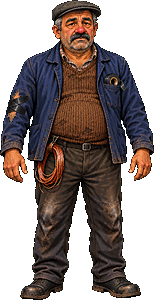
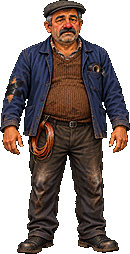
Personaje distincte: fețe și corpuri descrise, fără referința lui Romică, înălțimi reale (195 cm = 300 px)
Coada reface foile lui Gina, Marius, Nelu și Gelu, Costel, Tanti Veta și ale turistului.
tools/art/lineup.py le pune unul lângă altul la scara reală.

Claude-Session: https://claude.ai/code/session_01HCHJCEWXfeuuaToy4Kpunx

diff --git a/tools/art/lineup.py b/tools/art/lineup.py
@@ -1,0 +1,32 @@
+#!/usr/bin/env python3
+"""Pune foile de personaj una lângă alta, cu tălpile pe aceeași linie, la scara lor reală.
+
+  python3 tools/art/lineup.py <iesire.png> <id> [<id> ...] [--zoom 2]
+
+Folosește art/final/<id>.png. Bun pentru a verifica dacă personajele se deosebesc între ele
+(siluetă, înălțime, față) și pentru testul orb.
+"""
+import argparse
+import os
+
+from PIL import Image
+
+ROOT = os.path.abspath(os.path.join(os.path.dirname(__file__), "..", ".."))
+
+ap = argparse.ArgumentParser()
+ap.add_argument("out")
+ap.add_argument("ids", nargs="+")
+ap.add_argument("--zoom", type=int, default=2)
+a = ap.parse_args()
+
+ims = [Image.open(os.path.join(ROOT, "art", "final", i + ".png")).convert("RGBA") for i in a.ids]
+gap = 14
+w = sum(im.width for im in ims) + gap * (len(ims) + 1)
+h = max(im.height for im in ims) + 20
+canvas = Image.new("RGBA", (w, h), (42, 42, 51, 255))
+x = gap
+for im in ims:
+    canvas.alpha_composite(im, (x, h - 10 - im.height))
+    x += im.width + gap
+canvas.convert("RGB").resize((w * a.zoom, h * a.zoom), Image.NEAREST).save(a.out)
+print("ok:", a.out, canvas.size)

diff --git a/tools/art/generate.py b/tools/art/generate.py
@@ -31,7 +31,7 @@ import urllib.error
 import urllib.request
 
 sys.path.insert(0, os.path.dirname(__file__))
-from pixelize import pixelize  # noqa: E402
+from pixelize import pixelize, pixelize_args  # noqa: E402
 
 ROOT = os.path.abspath(os.path.join(os.path.dirname(__file__), "..", ".."))
 PROMPTS = os.path.join(ROOT, "art", "prompts")
@@ -141,9 +141,8 @@ def generate(asset_id, key, quality_override=""):
     raw_path = os.path.join(RAW, asset_id + ".png")
     with open(raw_path, "wb") as f:
         f.write(png)
-    pix = spec.get("pixelize", {"width": 640, "height": 360} if spec.get("type") == "scene" else {"height": 300})
     final_path = os.path.join(FINAL, asset_id + ".png")
-    pixelize(raw_path, final_path, **pix)
+    pixelize(raw_path, final_path, **pixelize_args(spec))
     cost = estimate_cost(model, res.get("usage", {}) or {})
     stamp = datetime.datetime.now(datetime.timezone.utc).strftime("%Y-%m-%d %H:%M UTC")
     new = not os.path.exists(LOG)

diff --git a/tools/art/import_image.py b/tools/art/import_image.py
@@ -14,7 +14,7 @@ import shutil
 import sys
 
 sys.path.insert(0, os.path.dirname(__file__))
-from pixelize import pixelize  # noqa: E402
+from pixelize import pixelize, pixelize_args  # noqa: E402
 
 ROOT = os.path.abspath(os.path.join(os.path.dirname(__file__), "..", ".."))
 
@@ -32,10 +32,7 @@ os.makedirs(os.path.join(ROOT, "art", "final"), exist_ok=True)
 raw = os.path.join(ROOT, "art", "raw", name + ".png")
 from PIL import Image
 Image.open(a.image).save(raw)
-pix = dict(spec.get("pixelize", {"width": 640, "height": 360} if spec.get("type") == "scene" else {"height": 300}))
-if spec.get("manual_key"):
-    pix["key"] = spec["manual_key"]
-pixelize(raw, os.path.join(ROOT, "art", "final", name + ".png"), **pix)
+pixelize(raw, os.path.join(ROOT, "art", "final", name + ".png"), **pixelize_args(spec))
 log = os.path.join(ROOT, "art", "LOG.md")
 new = not os.path.exists(log)
 with open(log, "a", encoding="utf-8") as f:

diff --git a/tools/art/pixelize.py b/tools/art/pixelize.py
@@ -8,6 +8,24 @@ Personaje/obiecte (cu transparență): redimensionare la înălțimea cerută, m
 import sys
 from PIL import Image, ImageEnhance, ImageFilter
 
+# Foile de personaj au toate aceeași scară, ca înălțimile să fie reale între ele: 195 cm = 300 px.
+CHAR_PX_PER_CM = 300 / 195
+
+
+def pixelize_args(spec):
+    """Parametrii de pixelizare pentru un fișier art/prompts/<id>.json."""
+    if spec.get("pixelize"):
+        pix = dict(spec["pixelize"])
+    elif spec.get("type") == "scene":
+        pix = {"width": 640, "height": 360}
+    elif spec.get("height_cm"):
+        pix = {"height": round(spec["height_cm"] * CHAR_PX_PER_CM)}
+    else:
+        pix = {"height": 300}
+    if spec.get("manual_key"):
+        pix["key"] = spec["manual_key"]
+    return pix
+
 
 def _crop_to(im, w, h):
     tw, th = im.size

diff --git a/tools/art/import_inbox.py b/tools/art/import_inbox.py
@@ -20,7 +20,8 @@ for path in sorted(glob.glob(os.path.join(ROOT, "art", "inbox", "*"))):
     if not os.path.exists(os.path.join(ROOT, "art", "prompts", asset_id + ".json")):
         print(f"::warning::{name}: nu există art/prompts/{asset_id}.json, îl las în inbox.")
         continue
-    cmd = [sys.executable, os.path.join(ROOT, "tools", "art", "import_image.py"), asset_id, path, src]
+    source = variant if variant in ("chatgpt", "gemini") else src
+    cmd = [sys.executable, os.path.join(ROOT, "tools", "art", "import_image.py"), asset_id, path, source]
     if variant:
         cmd += ["--variant", variant]
     subprocess.check_call(cmd)

diff --git a/docs/ARTA.md b/docs/ARTA.md
@@ -22,7 +22,7 @@
 
 ## Reguli
 - Cheia API stă **doar** în secretul `OPENAI_API_KEY` al repository-ului. Nu se scrie niciodată în fișiere sau în chat.
-- **Referințe** (`refs`): doar imagini proprii (foi de personaj, scene generate deja), ca să rămână personajele identice între scene. Fotografiile reale de pe internet se folosesc doar ca sursă de fapte în prompt, nu ca imagini de intrare.
+- **Referințe** (`refs`): doar imagini proprii, și **doar ale aceluiași personaj** (foaia lui de personaj, când îi facem portretul sau o scenă cu el). Niciodată foaia altui personaj ca „referință de stil”: modelul îi copiază fața (vezi mai jos). Fotografiile reale de pe internet se folosesc doar ca sursă de fapte în prompt, nu ca imagini de intrare.
 - Plafon: maximum 4 imagini pe rulare, ca să nu apară facturi surpriză.
 - Arta pe straturi: fundaluri **fără personaje**, iar personajele și obiectele interactive ca imagini separate, cu fundal transparent.
 
@@ -42,3 +42,14 @@ Test orb pe variantele pixelizate (realism / lizibilitate / impresie):
 - **Cameră:** **un cadru fix 16:9 pe fiecare loc**, ca un tablou. Fără panorame și fără mai multe unghiuri pe același loc.
 - **Stil global:** lumină realistă proprie fiecărei scene, apoi **aceeași gradare de culoare** pentru tot jocul (aplicată din cod la pixelizare), ca să pară unitar.
 - **Animații Veo:** personajele principale au două bucle, **așteptare** și **vorbit**; cele secundare doar **așteptare**.
+
+## Personaje distincte (12.10.2026)
+- **Problema:** prima serie de personaje secundare semăna prea mult cu Romică (aceeași mustață, nas roșu, sprâncene, aceeași înălțime). Cauze: foaia lui Romică dată ca referință tuturor, fețe nedescrise în prompt și toate personajele aduse la 300 px.
+- **Regula:** fiecare prompt de personaj descrie explicit **CORPUL** (înălțime, constituție, postură) și **FAȚA** (formă, nas, ochi, păr, barbă/mustață sau lipsa lor). Doar băutorii au nas roșu. Siluetele trebuie să se deosebească și în umbră.
+- **Înălțimi reale:** câmpul `height_cm` din `art/prompts/<id>.json`; toate foile de personaj au aceeași scară, **195 cm = 300 px** (`CHAR_PX_PER_CM` în `pixelize.py`). Romică 165, Gina 168, Marius 186, Nelu și Gelu 195, Costel 182, Tanti Veta 150, turistul 190.
+- **Verificare:** `tools/art/lineup.py` pune personajele unul lângă altul, la scara reală.
+
+## Animații Veo automate (12.10.2026)
+- Claude face singur pașii din Gemini (prin Claude in Chrome, pe Mac-ul lui Tavi): încarcă imaginea, scrie promptul, așteaptă, descarcă video-ul în Downloads, apoi îl convertește cu `video_to_sprite.py`. Cost zero (inclus în abonamentul Gemini Pro).
+- Imaginea de pornire trebuie să fie **16:9**, cu loc deasupra capului: Veo face video 16:9 și taie ce nu încape (la primul test, cu o imagine 4:3, i-a tăiat șapca lui Romică).
+- Imaginile de încărcat trebuie să fie în folderul de lucru al sesiunii (căile de pe Mac nu sunt acceptate de încărcarea din Chrome).

diff --git a/docs/POVESTE.md b/docs/POVESTE.md
@@ -38,12 +38,12 @@
 8. **Gara de Nord, dimineața.** Un bliț. Un turist străin îl fotografiază ca pe o atracție locală. Romică deschide ochii: „…am ajuns în București.” Are 7 lei și un borcan de zacuscă. Începe jocul.
 
 ## Personajele prologului: aspect fixat (12.10.2026)
-- **Gina** (nevasta lui Romică), ~50: „doamnă” de sat. Păr vopsit roșu-vișiniu, bigudiuri, halat de satin cu flori, ochelari pe nas; se crede mai fină decât tot satul.
-- **Marius** (nepotul venit din Germania), ~30: în sat fusese ucenicul lui Romică, „bun la toate”. Acum face pe superiorul cu un certificat de electrician nemțesc, înrămat, pe care îl arată pe telefon.
-- **Nelu și Gelu** (gemenii), ~40: identici, grăsuți, aceeași mustață; treninguri de culori diferite (Nelu roșu, Gelu albastru) ca să-i deosebești. Vorbesc mereu în ecou.
-- **Costel** (birtașul): fost gestionar la magazinul CAP-ului, halat albastru de magazin, creion după ureche.
-- **Tanti Veta**: vecina care știe tot ce mișcă în sat; cardigan, ochelari cu ramă groasă.
-- **Turistul** (Gara de Nord): bărbat de ~35 de ani, rucsac mare, sandale cu șosete, aparat foto profesional, entuziasmat de „authentic Romania”.
+- **Gina** (nevasta lui Romică), ~50, 1,68 m (mai înaltă decât el): „doamnă” de sat, slabă și colțuroasă, față îngustă, nas ascuțit, sprâncene trase cu creionul, ruj aprins. Păr vopsit roșu-vișiniu, bigudiuri, halat de satin cu flori, ochelari pe nas; se crede mai fină decât tot satul.
+- **Marius** (nepotul venit din Germania), ~30, 1,86 m: lung, slab, ras proaspăt, ochelari subțiri, păr cu gel, piele palidă de birou. În sat fusese ucenicul lui Romică, „bun la toate”. Acum face pe superiorul cu un certificat de electrician nemțesc, înrămat, pe care îl arată pe telefon.
+- **Nelu și Gelu** (gemenii), ~40, 1,95 m: identici, doi uriași cu capul ras, fără mustață, gât gros; treninguri de culori diferite (Nelu roșu, Gelu albastru) ca să-i deosebești. Vorbesc mereu în ecou.
+- **Costel** (birtașul), ~60, 1,82 m: fost gestionar la magazinul CAP-ului; uscat și gălbejit, obraji supți, chelie cu părul pieptănat peste, ochelari cu ramă metalică, fără mustață; halat albastru de magazin, creion după ureche.
+- **Tanti Veta**, ~70, 1,50 m: vecina care știe tot ce mișcă în sat; mică și gârbovă, față rotundă, ochi măriți de lentile groase; cardigan.
+- **Turistul** (Gara de Nord): bărbat de ~35 de ani, 1,90 m, lung, roșcat și pistruiat, foarte palid; rucsac mare, sandale cu șosete, aparat foto profesional, entuziasmat de „authentic Romania”.
 
 ## Prezentare pe ecran (12.10.2026)
 - **Romică** apare: în oglindă, ca **portret animat la replicile lui** și în **câteva cadre scurte din afară** la momentele-cheie (cărat la tren, trezirea în gară).

diff --git a/art/prompts/_style.md b/art/prompts/_style.md
@@ -6,3 +6,4 @@ STYLE GUIDE for the game "M-am trezit în București" (I Woke Up in Bucharest), 
 - Tone: affectionate satire of Romanian everyday life. Mock situations, behaviours and institutions, never ethnic groups, poor people or the homeless.
 - NO TEXT, letters, numbers, logos or watermarks anywhere in the image unless the prompt explicitly asks for specific text. Signs, posters and screens must be left BLANK; the game adds text later.
 - No real brands, no real people, no famous characters.
+- PEOPLE: every character has their own face and body type, exactly as the prompt describes; never reuse another character's face.

diff --git a/art/QUEUE.md b/art/QUEUE.md
@@ -8,3 +8,11 @@
 - [x] costel_foaie
 - [x] veta_foaie
 - [x] turist_foaie
+
+## Refacere: personaje distincte (prompturi noi, fără referința lui Romică)
+- [ ] gina_foaie
+- [ ] marius_foaie
+- [ ] gemeni_foaie
+- [ ] costel_foaie
+- [ ] veta_foaie
+- [ ] turist_foaie
